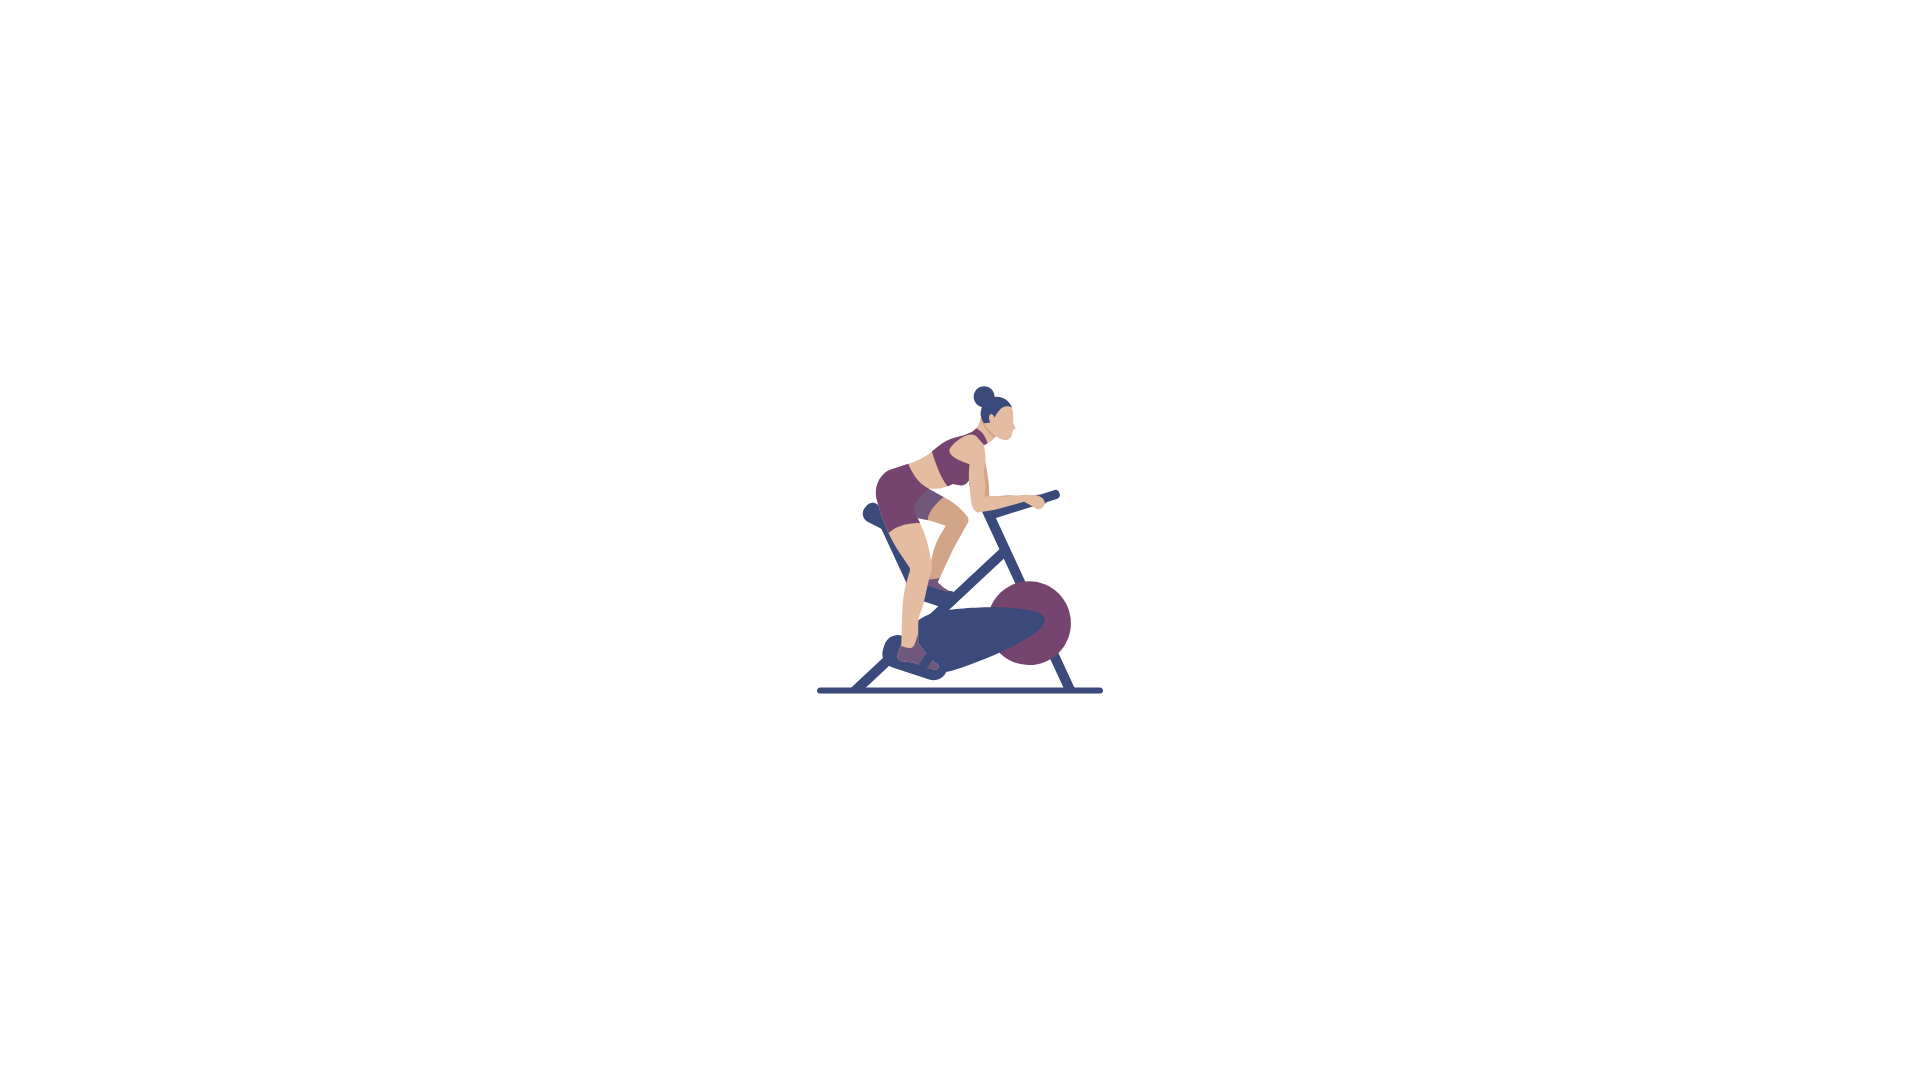
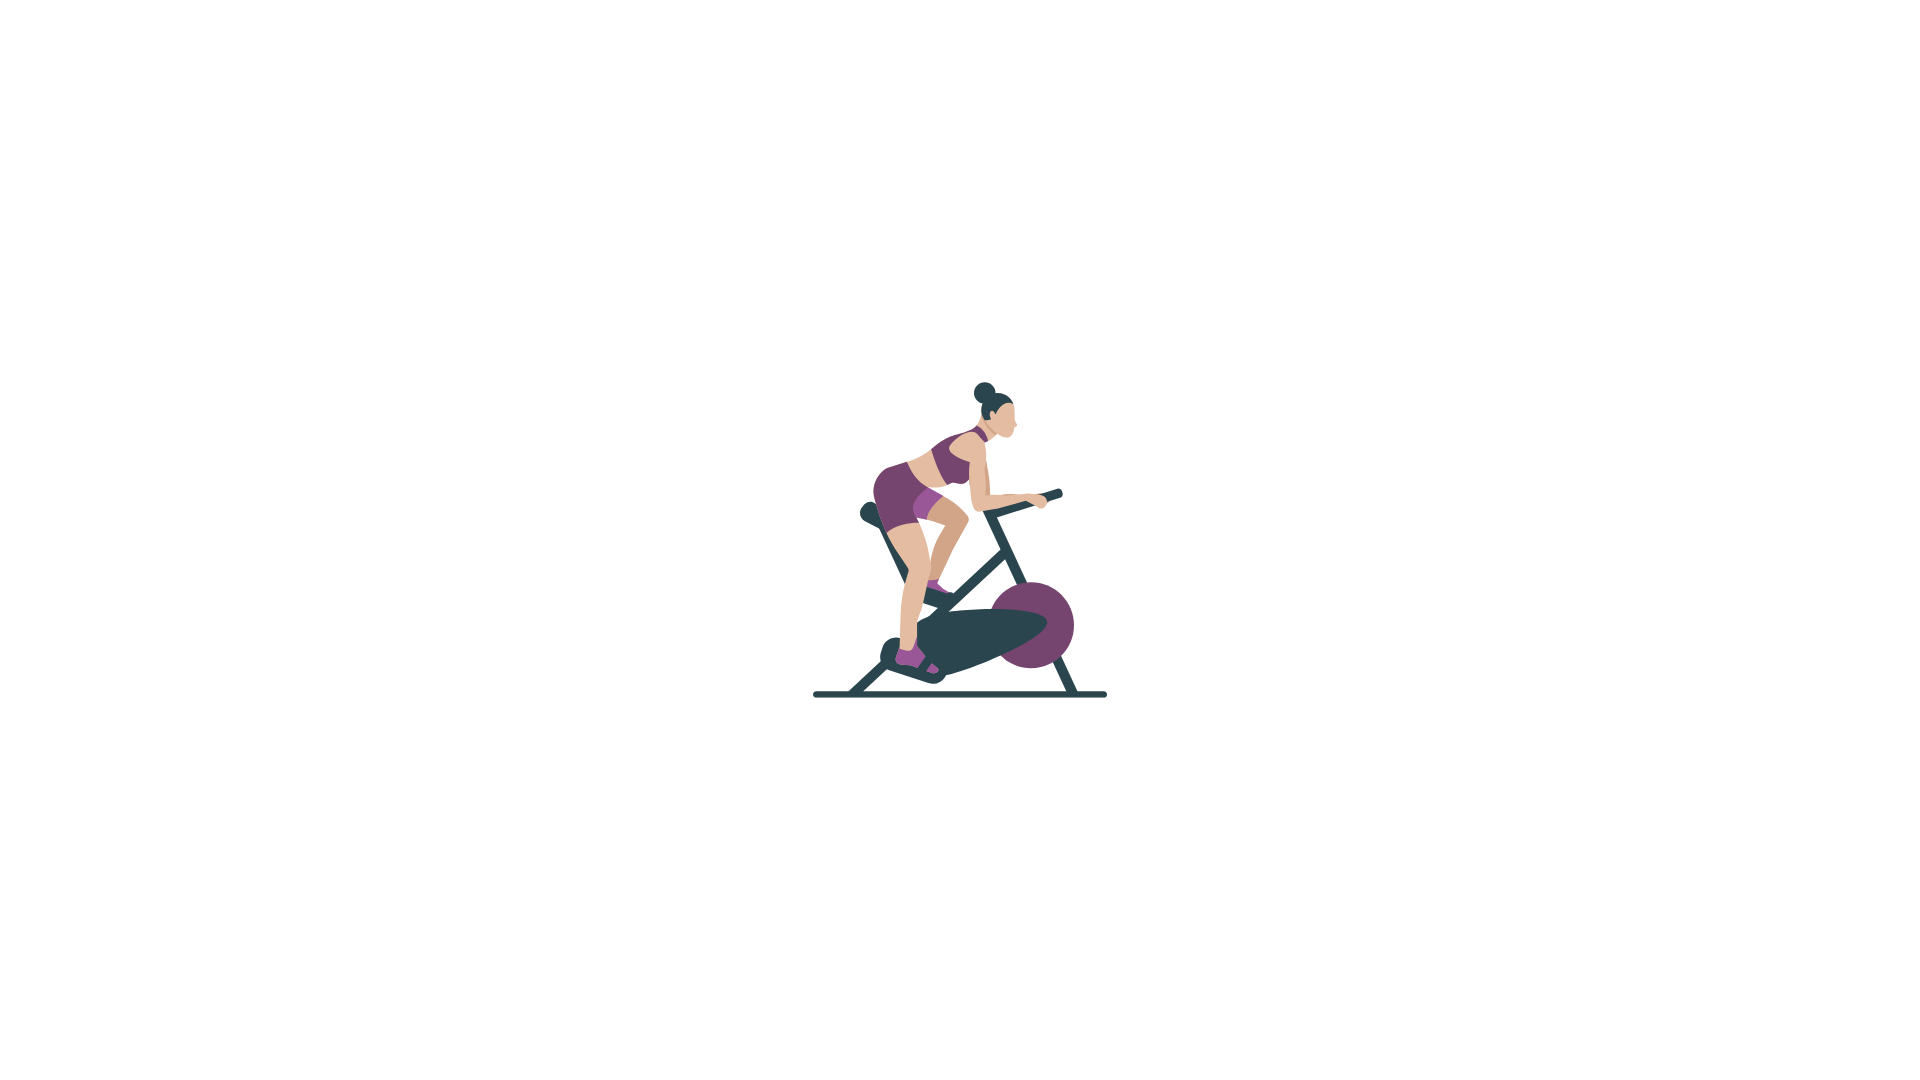
commiting changes

Changed region(s): [[0.4375, 0.3361, 0.5625, 0.6722]]

diff --git a/components/WeaklyGoals.tsx b/components/WeaklyGoals.tsx
@@ -16,7 +16,7 @@ const WeaklyGoals: React.FC<WeaklyGoalsProps> = ({ onPress }) => {
                     <Text style={styles.description}>Start Creating</Text>
                     </Pressable>
                 </View>
-                <Image source={require("../assets/4.jpg")} style={styles.image} />
+                <Image source={require("../assets/8.png")} style={styles.image} />
             </Card>
         </View>
     );
